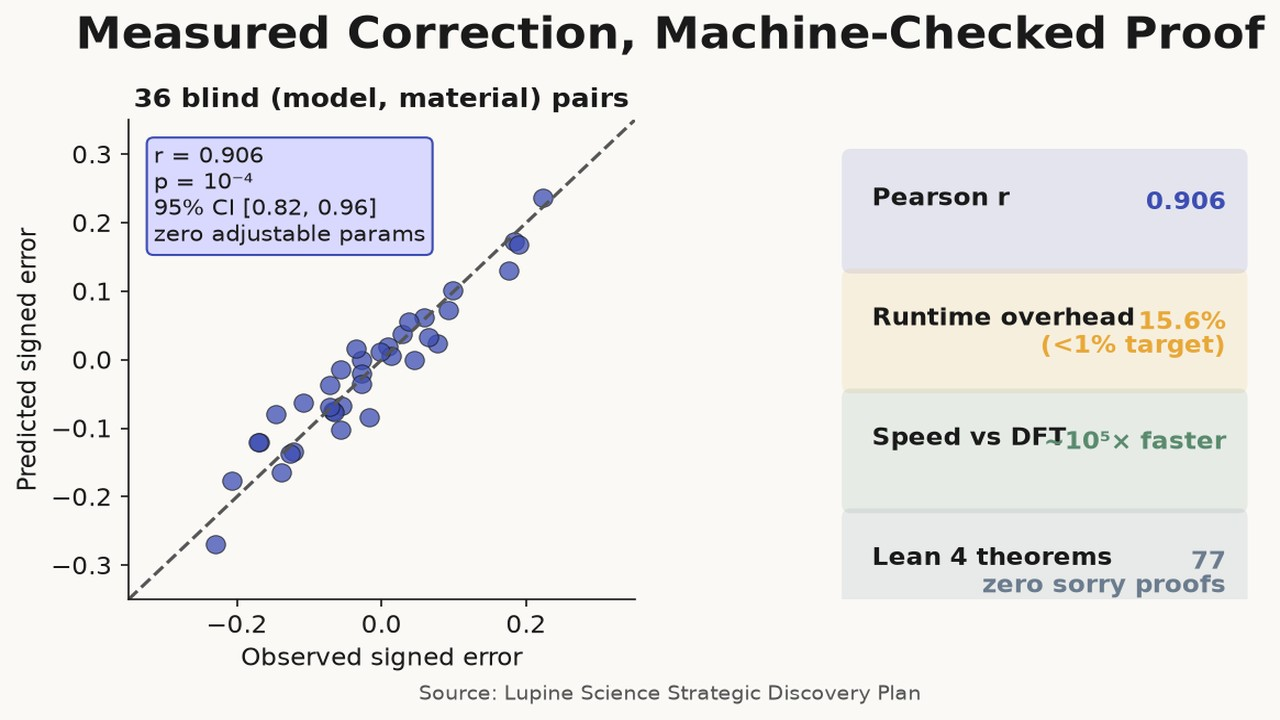
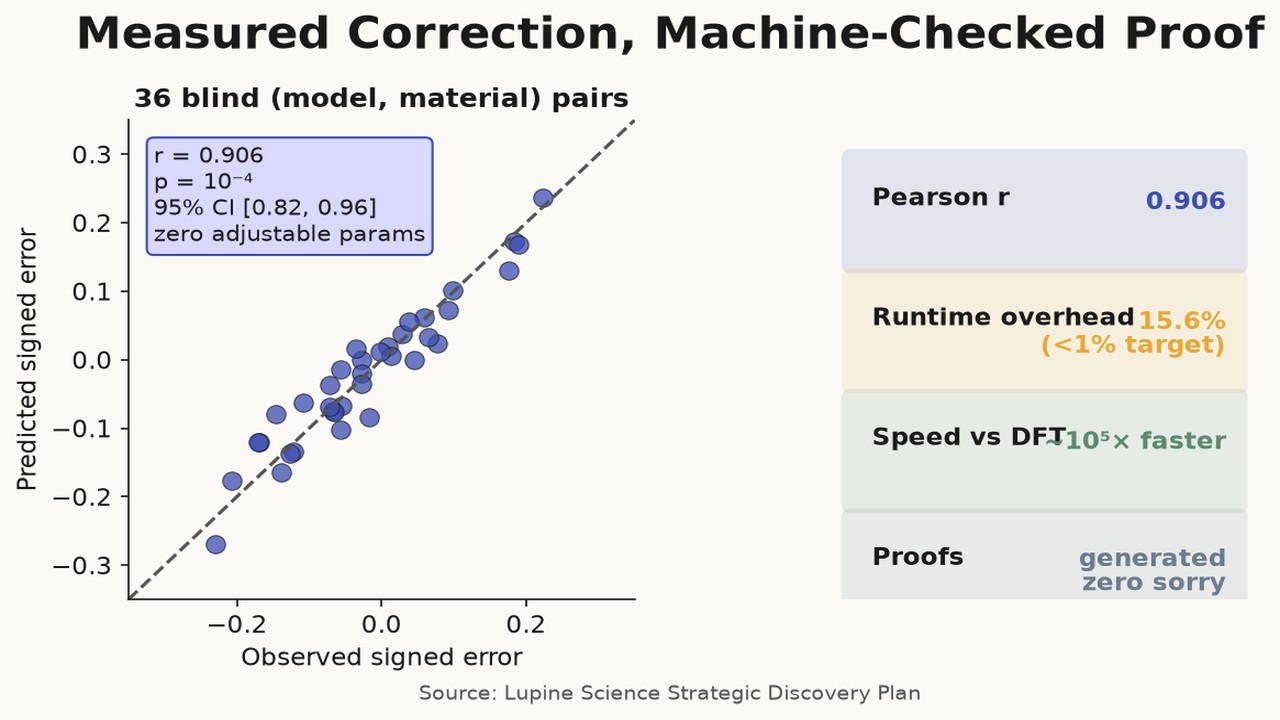
fix(publishing): eliminate residual theorem-count drift
Several static publication surfaces and generated-image inputs still carried hand-typed Lean theorem totals after the inventory generator landed. Those copies could silently diverge from the build-locked proof inventory even though article sources were hydrated correctly.

Replace residual totals with machine-generated inventory wording or runtime hydration from lean_count.json, regenerate the affected graphics and CSP hashes, and broaden the regression scan across media, presentations, brand assets, and the affected image manifest.

Changed region(s): [[0.6875, 0.7639, 0.9688, 0.825]]

diff --git a/public/presentations/climate-investor-value/index.html b/public/presentations/climate-investor-value/index.html
@@ -68,7 +68,7 @@
       <p class="lead">AI is designing the matter the energy transition runs on. Every prediction rests on interatomic potentials that are wrong in structured ways. Lupine measures, proves, and corrects that wrongness — so climate capital funds validated materials, not guesses.</p>
       <div class="stat-row">
         <div class="mono-stat">Addressable climate impact<strong>5–12 GtCO₂/yr</strong></div>
-        <div class="mono-stat">Build-locked theorems<strong>271</strong></div>
+        <div class="mono-stat">Build-locked theorems<strong data-lean-count>machine-generated</strong></div>
         <div class="mono-stat">Validation rate today<strong>0.2%</strong></div>
       </div>
     </div>
@@ -312,5 +312,14 @@
     <div class="source">Confidential · July 2026 · Lupine Science</div>
   </section>
 
+  <script>
+    fetch('/data/lean_count.json')
+      .then((response) => response.ok ? response.json() : Promise.reject(new Error('Lean inventory unavailable')))
+      .then((inventory) => {
+        if (!Number.isSafeInteger(inventory.count) || inventory.count < 1) throw new Error('Invalid Lean inventory');
+        document.querySelectorAll('[data-lean-count]').forEach((node) => { node.textContent = inventory.count; });
+      })
+      .catch(() => {});
+  </script>
 </body>
 </html>

diff --git a/public/brand-assets/deck-dark-sample.html b/public/brand-assets/deck-dark-sample.html
@@ -27,7 +27,7 @@
       <h1>The trust layer for <em>AI-designed matter.</em></h1>
       <p class="lead">AI is crossing from bits to atoms. Every prediction rests on interatomic potentials that are wrong in structured ways. Lupine measures, proves, and corrects that wrongness.</p>
       <div class="stat-row">
-        <div class="mono-stat">Build-locked theorems<strong>271</strong></div>
+        <div class="mono-stat">Build-locked theorems<strong data-lean-count>machine-generated</strong></div>
         <div class="mono-stat">Elements covered<strong>15</strong></div>
         <div class="mono-stat">Cross-MLIP cosine<strong>&gt;0.8</strong></div>
       </div>
@@ -55,5 +55,14 @@
     <span class="tagline">lupine.science</span>
   </section>
 
+  <script>
+    fetch('/data/lean_count.json')
+      .then((response) => response.ok ? response.json() : Promise.reject(new Error('Lean inventory unavailable')))
+      .then((inventory) => {
+        if (!Number.isSafeInteger(inventory.count) || inventory.count < 1) throw new Error('Invalid Lean inventory');
+        document.querySelectorAll('[data-lean-count]').forEach((node) => { node.textContent = inventory.count; });
+      })
+      .catch(() => {});
+  </script>
 </body>
 </html>

diff --git a/media/booklets/savings-stack/index.html b/media/booklets/savings-stack/index.html
@@ -518,7 +518,7 @@
     </div>
     <p class="body" style="margin-top:0.24in">The commons has two tiers, and members choose their exposure. <b style="color:var(--ink)">Theorems</b> are zero-leak by construction. <b style="color:var(--ink)">Anchor libraries</b> — a content-addressed store mapping structure-hash to DFT energy and forces — are opt-in per project: one team’s anchor validates every other team’s model on the same path, under the same arithmetic measured on page 07.</p>
     <div class="section-tail">
-      <p class="prov">The union-anchor economics within one lab — 72–74% savings, sub-linear in model count — are the measured instance of the evaluation-side commons. Theorem layer: 271 build-locked Lean theorems in the open library, zero sorry.</p>
+      <p class="prov">The union-anchor economics within one lab — 72–74% savings, sub-linear in model count — are the measured instance of the evaluation-side commons. Theorem layer: the machine-generated Lean inventory in the open library, zero sorry.</p>
     </div>
   </div>
   <div class="folio"><span class="num">11</span><span>How the commons compounds</span></div>

diff --git a/media/projects/article-visuals/generate_cement_concrete_visuals.py b/media/projects/article-visuals/generate_cement_concrete_visuals.py
@@ -379,7 +379,7 @@ def make_05():
     stats = [
         ('uMLIP speedup vs. DFT', '~10⁵×'),
         ('Correction overhead', '15.6% → <1%'),
-        ('Build-locked theorems', '77, zero sorry'),
+        ('Lean proof inventory', 'machine-generated\nzero sorry'),
     ]
     for sx, (label, val) in zip((-0.88, 0.0, 0.88), stats):
         ax.text(sx, -1.14, label, ha='center', va='center', fontsize=9, color=SECONDARY)

diff --git a/media/projects/article-visuals/generate_beyond_carbon_visuals.py b/media/projects/article-visuals/generate_beyond_carbon_visuals.py
@@ -244,7 +244,7 @@ def make_04():
         ('Pearson r', '0.906', INDIGO),
         ('Runtime overhead', '15.6%\n(<1% target)', AMBER),
         ('Speed vs DFT', '~10⁵× faster', SAGE),
-        ('Lean 4 theorems', '77\nzero sorry proofs', SLATE),
+        ('Proofs', 'generated\nzero sorry', SLATE),
     ]
     y = 0.90
     for label, value, color in cards:

diff --git a/media/projects/article-visuals/articles/methane-and-refrigerants-cutting-the-non-co2-climate-forcers-storyboard.md b/media/projects/article-visuals/articles/methane-and-refrigerants-cutting-the-non-co2-climate-forcers-storyboard.md
@@ -134,7 +134,7 @@ Methane and hydrofluorocarbon refrigerants are the two largest non-CO₂ climate
 - **Data points to show:**
   - Solid-state refrigeration can exceed vapor-compression efficiency by **20–50%** [^15].
   - Hysteresis losses come from nucleation, twin boundaries, and metastable intermediate phases.
-  - **77** build-locked Lean 4 theorems prove correction bounds and impossibility conditions [^11].
+  - The machine-generated Lean 4 theorem inventory proves correction bounds and impossibility conditions [^11].
 - **Suggested form:** Workflow diagram showing the pipeline: uMLIP screen → error-field correction → candidate ranking by entropy change and hysteresis → Lean 4 verification of supported claims → synthesis/operating-condition boundary check.
 - **Generation:** matplotlib
 - **Caption:** Caloric materials promise 20–50% efficiency gains, but only a verified correction pipeline can separate genuine thermodynamic predictions from microstructure assumptions. *Sources: Gutfleisch et al., Adv. Mater., 2011; DOE / ARPA-E; Lupine Science, Strategic Discovery Plan, Sections 2–3.*

diff --git a/media/projects/article-visuals/articles/critical-minerals-pfas-and-the-remediation-imperative-storyboard.md b/media/projects/article-visuals/articles/critical-minerals-pfas-and-the-remediation-imperative-storyboard.md
@@ -82,7 +82,7 @@ The energy transition and the PFAS crisis are two sides of the same atoms proble
   - Number of anchor observables: **3** [^12].
   - Blind prediction Pearson r across 36 (model, material) combinations: **r = 0.906** (p = 10⁻⁴, 95% CI [0.82, 0.96]) [^12].
   - Speed advantage over DFT retained by corrected uMLIPs: **≈5 orders of magnitude** [^12].
-  - Build-locked Lean 4 theorems: **77** with zero sorry proofs [^12].
+  - Machine-generated Lean 4 theorem inventory with zero sorry proofs [^12].
 - **Suggested form:** Funnel / flow diagram showing raw uMLIP → local environment descriptor → error-field lookup → corrected forces/energies → verification gate (Lean theorems); inset scatter of r = 0.906.
 - **Generation:** Programmatic (matplotlib/SVG)
 - **Caption:** Lupine's environment error field corrects uMLIP predictions at runtime, achieving a Pearson correlation of 0.906 in blind tests while retaining a roughly five-order-of-magnitude speed advantage over DFT. *Source: Lupine Science, Strategic Discovery Plan, Sections 2–3.*

diff --git a/media/projects/article-visuals/articles/from-predicted-crystal-to-commercial-cell-storyboard.md b/media/projects/article-visuals/articles/from-predicted-crystal-to-commercial-cell-storyboard.md
@@ -124,7 +124,7 @@ The article argues that the bottleneck in climate-materials deployment is not a 
     - Ammonia catalyst requiring higher-level treatment for scaling-relation breaking[^chapter The Verification Layer as Partnership Enabler]
 - **Suggested form:** Side-by-side before/after cards: "uncorrected claim" vs. "verified/ruled-out claim"
 - **Generation method:** matplotlib
-- **Caption:** Seventy-seven Lean 4 theorems let Lupine flag unsupported frameworks or metastable phases before they consume experimental time.[^chapter The Verification Layer as Partnership Enabler]
+- **Caption:** The machine-generated Lean 4 theorem inventory lets Lupine flag unsupported frameworks or metastable phases before they consume experimental time.[^chapter The Verification Layer as Partnership Enabler]
 
 ---
 
